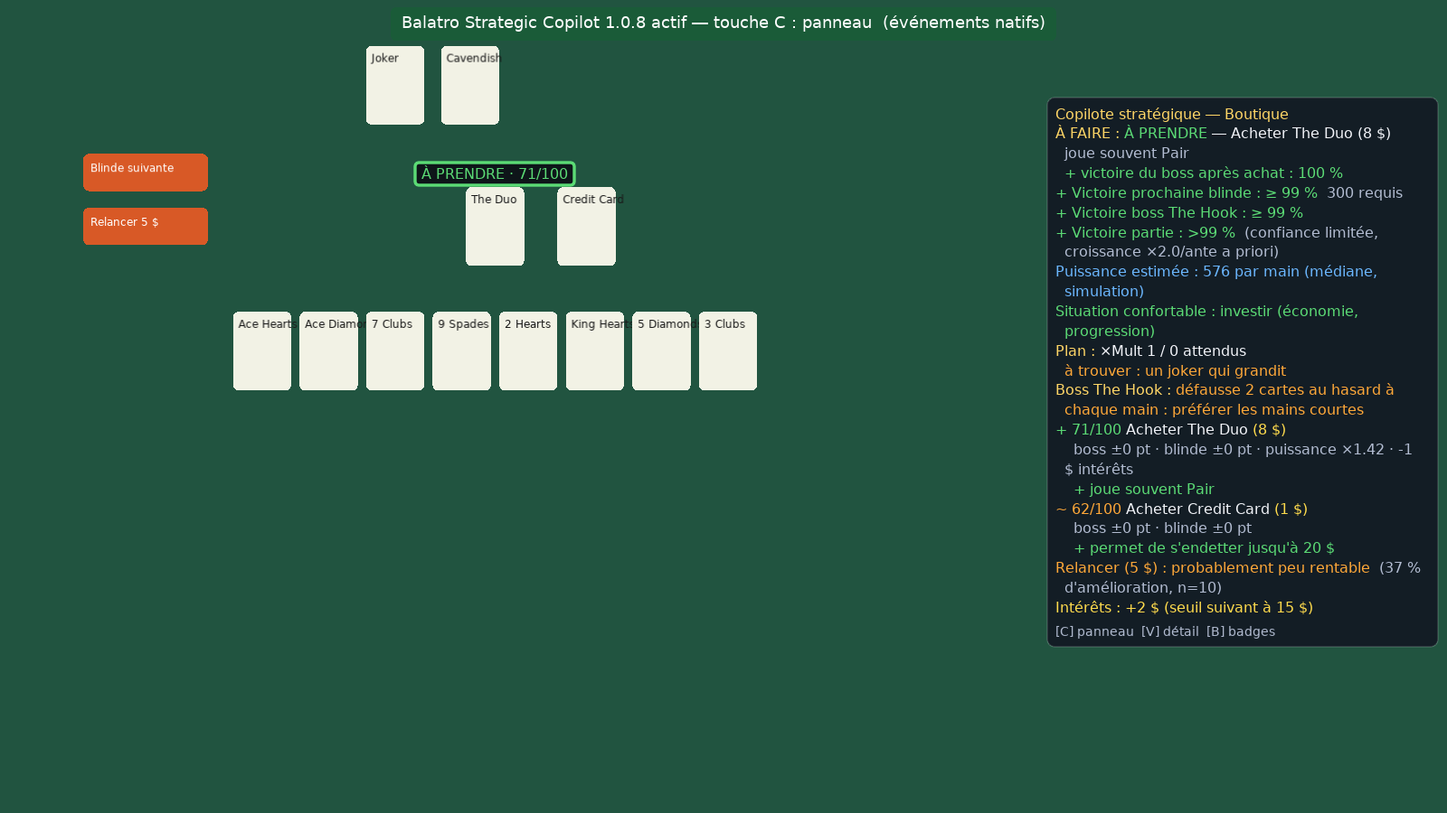
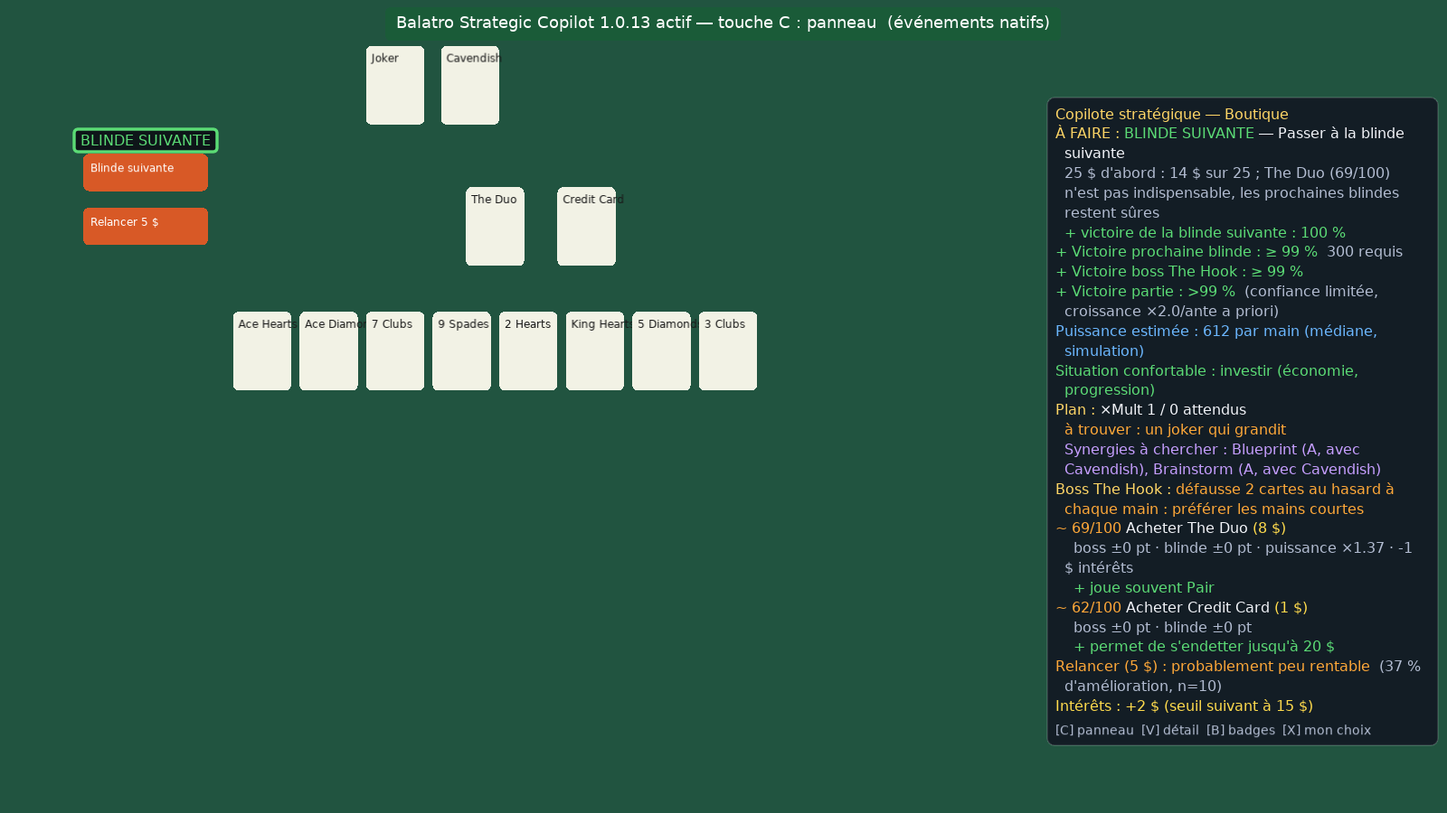
1.0.13: "25 $ d'abord" (thresholds 95 % / 85 % before the boss / 70 % earlier, measured on 40 orange-stake runs), only real income counts for money jokers, Death waits for a better card, docs and packages (installer 53/53, both loaders, standalone LÖVE)
Claude-Session: https://claude.ai/code/session_01DYVtr83p45bK7bhPZhn5XR

diff --git a/docs/TESTS.md b/docs/TESTS.md
@@ -13,8 +13,8 @@ Aucune dépendance de test : `tests/testlib.lua` fournit assertions, exécution 
 
 ```bash
 python3 tools/build.py                                    # paquet dist/…zip
-pwsh -NoProfile -File tests/installer/test_installer.ps1 -Zip dist/BalatroStrategicCopilot-1.0.12-installateur.zip [-Smods <sources Steamodded>]
-tests/standalone/run_love_standalone.sh dist/BalatroStrategicCopilot-1.0.12.zip [dossier]      # mode autonome, vrai LÖVE
+pwsh -NoProfile -File tests/installer/test_installer.ps1 -Zip dist/BalatroStrategicCopilot-1.0.13-installateur.zip [-Smods <sources Steamodded>]
+tests/standalone/run_love_standalone.sh dist/BalatroStrategicCopilot-1.0.13.zip [dossier]      # mode autonome, vrai LÖVE
 luajit tools/smods_loader_check.lua <sources Steamodded> <dossier Mods>   # vrai chargeur Steamodded
 ```
 
@@ -28,7 +28,7 @@ luajit tools/smods_loader_check.lua <sources Steamodded> <dossier Mods>   # vrai
 | `unit/test_jokers` | 12 | 150 jokers présents ; jokers de rang, couleur, type de main, état, progression ; Loyalty Card ; argent ; Lucky Cat ; Bloodstone ; **fuzzing** des 150 jokers sur 40 mains aléatoires |
 | `unit/test_probability` | 4 | hypergéométrique, inclusion-exclusion, « au moins r groupes » **comparés à l'énumération brute** ; Wilson |
 | `unit/test_hand_advisor` | 17 | **1.0.10** : cartes face cachée (The Wheel) : les cartes d'un jeu mêlant cartes cachées et visibles peuvent être défaussées au lieu d'être jouées (option coupée par défaut, mesurée neutre), aucun candidat en double ; **1.0.9** : **ordre des cartes** (Photograph + Hanging Chad : un Roi en tête ; carte Multi avant une carte de verre ; Dames gardées à gauche des Rois avec Shoot the Moon + Baron ; pas de numéros quand l'ordre ne change rien), jeu évalué dans son meilleur ordre (la Double paire qui ne gagne qu'avec un Roi en tête est trouvée) ; **1.0.8** : **Cerulean Bell** (la carte imposée part avec chaque défausse, 4 autres cartes au plus, la défausser seule est une option ; fin de manche simulée avec une nouvelle carte imposée après chaque pioche : chances proches du même jeu sans boss), boss qui changent d'une main à l'autre (The Eye, The Mouth, The Arm, Crimson Heart) ; **1.0.7** : cartes Or et sceau bleu gardées en main sur une main gagnante, valeur des cartes selon leurs effets (acier, or, violet, chance, verre) ; 218 jeux, défausse de couleur exacte, cas impossibles/faciles, monotonie en nombre de mains, carte imposée, The Psychic, carte cachée inutile quand la paire visible gagne, **toutes les cartes cachées (The House)** : conseil non vide, positions interchangeables, même conseil quelle que soit l'identité réelle des cartes, quintes Four Fingers |
-| `unit/test_advice` | 35 | **1.0.9** : numéros JOUER 1, 2… / GARDER 1, 2… et IMPOSÉE n sur les cartes ; joker loué acheté seulement s'il est fort ou en danger, revendu quand la suite reste sûre sans lui ; danger critique : relances sans limite de nombre ; **prochaine étape** : achat du meilleur objet abordable, remplacement (vendre d'abord), consommables pleins (faire de la place), vente d'un joker inutile seulement, relance puis blinde suivante, attente de l'analyse complète, planètes (sauf Observatory), tarots d'argent, jouer / défausser, tarot sur les cartes à jouer, Luchador contre un boss dangereux, Invisible Joker prêt, paquets (prendre / passer, cibles d'Arcana), passer ou jouer une blinde (boss toujours joué), numéros d'ordre seulement quand l'ordre est faux ; **1.0.6** : Death (DEVIENT à gauche, MODÈLE à droite, consigne de glissement), Strength, Hanged Man, sceaux, Magician, Chariot, consommables qui créent des cartes, Death pris dans un paquet, blinde : choix définitif seulement, paquets achetés dès 52/100, épargne des intérêts à partir de l'ante 2 (sauf objet fort ou danger), intérêts pesés à l'ante 1, une relance par boutique / relance gratuite ; **1.0.7** : éternel jamais vendu, périssable expiré vendu, Judgement avec jokers pleins (vendre d'abord le plus faible, en boutique et en paquet), règles des pros (en retard → acheter, dernière ante et The Ox → pas d'épargne, relances avec l'argent dormant, une seule relance aux antes 1-3), Verdant Leaf (une seule vente), excédent d'argent investi |
+| `unit/test_advice` | 37 | **1.0.13** : « 25 $ d'abord » (épargne dès l'ante 1 sous 25 $, boss préparé à la dernière boutique, seuls les objets qui relèvent les chances quand ce n'est pas sûr, objet fort et joker d'argent autorisés, ni paquet ni relance sous 25 $, discipline habituelle une fois 25 $ atteints) ; Death gardé tant qu'une bien meilleure carte à copier est dans le paquet ; **1.0.9** : numéros JOUER 1, 2… / GARDER 1, 2… et IMPOSÉE n sur les cartes ; joker loué acheté seulement s'il est fort ou en danger, revendu quand la suite reste sûre sans lui ; danger critique : relances sans limite de nombre ; **prochaine étape** : achat du meilleur objet abordable, remplacement (vendre d'abord), consommables pleins (faire de la place), vente d'un joker inutile seulement, relance puis blinde suivante, attente de l'analyse complète, planètes (sauf Observatory), tarots d'argent, jouer / défausser, tarot sur les cartes à jouer, Luchador contre un boss dangereux, Invisible Joker prêt, paquets (prendre / passer, cibles d'Arcana), passer ou jouer une blinde (boss toujours joué), numéros d'ordre seulement quand l'ordre est faux ; **1.0.6** : Death (DEVIENT à gauche, MODÈLE à droite, consigne de glissement), Strength, Hanged Man, sceaux, Magician, Chariot, consommables qui créent des cartes, Death pris dans un paquet, blinde : choix définitif seulement, paquets achetés dès 52/100, épargne des intérêts à partir de l'ante 2 (sauf objet fort ou danger), intérêts pesés à l'ante 1, une relance par boutique / relance gratuite ; **1.0.7** : éternel jamais vendu, périssable expiré vendu, Judgement avec jokers pleins (vendre d'abord le plus faible, en boutique et en paquet), règles des pros (en retard → acheter, dernière ante et The Ox → pas d'épargne, relances avec l'argent dormant, une seule relance aux antes 1-3), Verdant Leaf (une seule vente), excédent d'argent investi |
 | `unit/test_economy`, `test_strategy`, `test_synergy`, `test_shop` | 30 | **1.0.11** : remplacement d'un joker par un joker qui grandit : sa croissance comptée (option coupée par défaut, mesurée moins bonne) ; **1.0.10** : un joker tiré d'un paquet Bouffon est gratuit (option coupée par défaut, mesurée neutre) ; **1.0.9** : location comptée sur la durée (note bien plus basse que le même joker sans location), paquet Bouffon moins bien noté à la mise or (autocollants), revente d'un joker qui grandit comptée avec sa croissance ; intérêts, puissance reproductible, bootstrap monotone, effets de boss, blindes futures, a priori de croissance, danger continu, **1.0.8 : blindes passées comme les pros** (première Small Blind passée pour Investment, Coupon, Polychrome si la Big Blind reste sûre ; jamais pour Voucher, Juggle, D6, Double seuls ; jamais si la blinde suivante n'est pas sûre), ordre des jokers, contributions, adéquation, classement boutique, remplacement, planètes, variantes, relance, poids selon le danger, **paquets évalués par leur contenu** ; **1.0.7** : location −3 $/manche, cartes à jouer notées selon leurs effets, Judgement mesuré comme un remplacement, Hex / Ankh mesurés sur le plateau qu'ils laissent, relance utile même avec 5 jokers |
 | `unit/test_skip` | 6 | **1.0.8** : coût d'un passage (récompense, mains, intérêts, boutique ; Small Blind gratuite dès la mise rouge ; location économisée), tags d'argent selon le montant affiché, Orbital seulement sur la main principale, Big Blind passée seulement avec un boss sûr, Double selon le tag suivant, Boss Tag seulement contre un boss qui contre le jeu |
 | `unit/test_high_stakes` | 9 | **1.0.10** (mises verte et au-delà) : seuils « sûr » plus stricts (95 % / 85 % : mêmes chances, épargne gardée à la mise blanche, achat à la mise noire) ; presque jamais passer une blinde (tag Investissement aux antes 1-2, tag Boss contre un boss qui contre le jeu) ; pas de ×Mult à l'ante 4 → plus d'épargne ; trajectoire des parties gagnées (option coupée) ; une seule location avant l'ante 6 et seulement pour un ×Mult ou un joker qui grandit, éternels non ×Mult plus risqués ; bons sans score attendus sur un plateau sûr ; calibrage a priori des chances de la boutique (option coupée) ; planètes de la main principale (option coupée) ; jokers que le jeu ne rend jamais éternels / périssables (listes du wiki, identiques dans le mod et le simulateur) |
@@ -49,7 +49,7 @@ luajit tools/smods_loader_check.lua <sources Steamodded> <dossier Mods>   # vrai
 | `integration/test_steps_ui` | 5 | étiquette sur le bouton « blinde suivante », bouton absent : étape gardée en texte et boutons vus écrits au journal, étiquette « passer » sur la colonne de la blinde en cours, numéros d'ordre sous les jokers puis disparition une fois l'ordre corrigé, **The House** toutes cartes cachées (plus de « Aucune analyse disponible ») |
 | `integration/test_full_flow` | 2 | partie complète (main → défaite → bilan → fichiers → **redémarrage avec profil conservé**), boutique de bout en bout avec badges |
 | `unit/test_performance` | 6 | mesures (ci-dessous) |
-| **Total** | **285** | |
+| **Total** | **287** | |
 
 ### Tests de référence (scores)
 
@@ -98,11 +98,11 @@ prédiction (journal + diagnostic de compatibilité).
 Le script construit un **exécutable fusionné** (binaire LÖVE 11.5 + archive d'un Balatro simulé
 contenant `conf.lua` et `main.lua`), exactement comme `Balatro.exe`, puis le lance sous Xvfb avec
 différents dossiers de sauvegarde (l'équivalent de `%AppData%\Balatro`) remplis depuis l'archive
-`BalatroStrategicCopilot-1.0.12.zip`. Résultats (2026-10-22, paquet 1.0.12) :
+`BalatroStrategicCopilot-1.0.13.zip`. Résultats (2026-11-04, paquet 1.0.13) :
 
 | Scénario | Résultat |
 |---|---|
-| amorce + mod copiés | l'amorce est lue **à la place** du `main.lua` du jeu ; le `main.lua` d'origine est exécuté **une seule fois** ; copilote démarré en mode autonome (« 1.0.12 actif … mode autonome ») ; touche C : panneau ouvert ; C pendant une saisie : ignorée ; analyse terminée (image 354) ; panneau et badges « JOUER » affichés (capture) |
+| amorce + mod copiés | l'amorce est lue **à la place** du `main.lua` du jeu ; le `main.lua` d'origine est exécuté **une seule fois** ; copilote démarré en mode autonome (« 1.0.13 actif … mode autonome ») ; touche C : panneau ouvert ; C pendant une saisie : ignorée ; analyse terminée (image 308) ; panneau et badges « JOUER » affichés (capture) |
 | mod seul, sans amorce | jeu normal, pas de copilote (témoin) |
 | amorce sans le dossier du mod | jeu normal jusqu'au bout ; bandeau rouge « dossier introuvable » ; erreur dans `amorce.log` |
 | Steamodded a déjà chargé le copilote | l'amorce se retire (« Steamodded gère déjà le copilote »), pas de double chargement |
@@ -132,8 +132,8 @@ exécute l'installateur **extrait de l'archive réelle**, puis contrôle le rés
 
 Les dossiers `Mods` produits par S1, S4, S5, S7 et S9 sont ensuite passés aux **deux vrais
 chargeurs** de Steamodded (ci-dessous) : copilote trouvé, activé, bandeau « 1.0.3 actif » dans
-chaque cas. Paquet 1.0.12 (2026-10-22) : **53 vérifications réussies, 0 échec** ; S1, S4, S5 et S9
-passés aux deux chargeurs (0509c et récent) : bandeau « 1.0.12 actif » dans les 8 cas.
+chaque cas. Paquet 1.0.13 (2026-11-04) : **53 vérifications réussies, 0 échec** ; S1, S4, S5 et S9
+passés aux deux chargeurs (0509c et récent) : bandeau « 1.0.13 actif » dans les 8 cas.
 
 ### Performances mesurées (LuaJIT, conteneur Linux, plusieurs exécutions)
 

diff --git a/README.md b/README.md
@@ -5,7 +5,7 @@ partie, calcule les scores exacts, les probabilités, évalue la boutique, conse
 défausses, et **apprend de vos parties**. **Il ne joue jamais à votre place** : il n'effectue
 aucune action (sélection, jeu, défausse, achat, vente, relance).
 
-> Statut : version 1.0.12. Développée **hors du jeu** (aucune installation de Balatro n'était
+> Statut : version 1.0.13. Développée **hors du jeu** (aucune installation de Balatro n'était
 > disponible dans l'environnement de développement), puis essayée par l'utilisateur dans le vrai
 > jeu (mode copier-coller). Validée par des tests automatisés, un environnement Balatro/Steamodded
 > simulé, le vrai runtime LÖVE 11.5 et des parties complètes simulées ([entraînement](docs/TRAINING.md)).
@@ -36,7 +36,7 @@ aucune action (sélection, jeu, défausse, achat, vente, relance).
 **Méthode sans programme (recommandée, 1.0.4+)** — ni Lovely, ni Steamodded, ni script, ni DLL ;
 fonctionne aussi sur un PC protégé (contrôle parental, antivirus strict) :
 
-1. Extraire l'archive `BalatroStrategicCopilot-1.0.12.zip`.
+1. Extraire l'archive `BalatroStrategicCopilot-1.0.13.zip`.
 2. Copier le **contenu** du dossier `COPIER_DANS_AppData_Balatro` (`main.lua` + `Mods`) dans
    `%AppData%\Balatro\` (touche Windows + R, `%AppData%\Balatro`).
 3. Lancer Balatro : bandeau vert « … actif — touche C : panneau (mode autonome, sans Steamodded) ».
@@ -48,7 +48,7 @@ Balatro tourne sur LÖVE 11, qui lit `main.lua` d'abord dans le dossier de sauve
 **Avec Lovely + Steamodded** : copier le dossier `BalatroStrategicCopilot` dans
 `%AppData%\Balatro\Mods\` (de sorte que `Mods\BalatroStrategicCopilot\BalatroStrategicCopilot.json`
 existe ; une archive `.zip` déposée telle quelle est ignorée par les anciens Steamodded). L'archive
-`BalatroStrategicCopilot-1.0.12-installateur.zip` contient `INSTALLER_COPILOT.bat`, qui vérifie et
+`BalatroStrategicCopilot-1.0.13-installateur.zip` contient `INSTALLER_COPILOT.bat`, qui vérifie et
 répare toute la chaîne (dossier du jeu, Lovely, Steamodded, copilote) puis confirme que tout s'est
 chargé. Un **bandeau vert « actif »** s'affiche au lancement ; **aucun bandeau = mod non trouvé**
 ([pièges vérifiés](docs/INSTALL.md)).
@@ -78,7 +78,7 @@ qu'il faut toucher ; dès que vous l'avez faite, il recalcule et montre la suiva
 | **À PRENDRE** | sur l'objet de boutique ou la carte du paquet | le meilleur achat rentable (avec sa note /100) |
 | **À VENDRE** | sur un joker ou un consommable | pour remplacer un joker par un meilleur, faire de la place, gagner de l'argent avec un joker inutile, ou un effet de vente (Luchador contre un boss dangereux, Invisible Joker prêt) |
 | **RELANCER** | sur le bouton de relance | relance gratuite, meilleure boutique assez probable, ou une relance avant de partir (habitude des meilleurs joueurs), sans casser l'épargne des intérêts |
-| **BLINDE SUIVANTE** | sur le bouton pour quitter la boutique | quand plus rien n'est rentable, ou pour garder 25 $ d'intérêts (à partir de l'ante 2, si la suite est sûre) |
+| **BLINDE SUIVANTE** | sur le bouton pour quitter la boutique | quand plus rien n'est rentable, ou pour garder 25 $ d'intérêts : **« 25 $ d'abord » dès l'ante 1** (1.0.13, ci-dessous), puis à partir de l'ante 2 si la suite est sûre |
 | **JOUER** / **PASSER** | sur les boutons du choix de blinde | passer quand le tag vaut plus que ce que coûte le passage (récompense, mains, intérêts, boutique) et que la blinde suivante reste sûre sans boutique ; détail affiché dans le panneau ; seul le choix définitif s'affiche |
 | **UTILISER** + **CIBLE** | sur un consommable (+ les cartes à sélectionner) | planètes, argent (Hermit, Temperance), tarots et spectrales sur les cartes visées ; **Death** : DEVIENT (gauche) et MODÈLE (droite), avec la consigne de glisser la carte à gauche si besoin ; Hanged Man : À DÉTRUIRE |
 | **PASSER** | sur le bouton du paquet | quand aucune carte du paquet n'améliore le jeu |
@@ -97,6 +97,19 @@ Panneau fermé, un résumé compact reste visible. Au menu principal, `C` affich
 dernier bilan de partie, taux de victoire avec intervalle, calibration et précision des scores.
 Les options (badges, alertes, apprentissage, export, import, réinitialisation) sont dans
 *Mods → Balatro Strategic Copilot → Config*.
+
+### « 25 $ d'abord » (1.0.13)
+
+Votre stratégie : en début de partie (antes 1 à 3), tant que vous avez moins de 25 $, l'argent
+va aux 25 $ qui rapportent 5 $ d'intérêts à chaque manche. Le copilote ne fait acheter que ce
+dont la prochaine blinde a besoin pour rester sûre (et le boss, dès les boutiques qui le
+précèdent s'il paraît difficile), en choisissant seulement ce qui augmente vraiment les chances
+de passer ; un objet très fort (note ≥ 75) ou un joker d'argent qui se rembourse en 3 manches
+(Golden Joker, Rocket…) reste autorisé. Sous 25 $ : pas de paquet, pas de relance, pas de joker
+pris « pour remplir ». L'étape le dit : « 25 $ d'abord : 14 $ sur 25… ». Une fois les 25 $
+atteints, le copilote reprend sa discipline habituelle (garder 25 $, dépenser l'excédent).
+Réglages dans `config.lua` (`rush_cap = false` coupe la stratégie). Mesures sur le simulateur :
+[docs/TRAINING.md](docs/TRAINING.md), « Résultats 1.0.13 ».
 
 ### « Mon choix » : apprendre de vos décisions (touche `X`, 1.0.12)
 

diff --git a/CHANGELOG.md b/CHANGELOG.md
@@ -1,5 +1,54 @@
 # Historique des versions
 
+## 1.0.13 — 2026-11-04
+
+Demande : « se concentrer en début de partie sur les 25 $ pour avoir les 5 $ d'intérêts à
+chaque fois, le plus vite possible sans échouer sur les blindes », puis la stratégie du
+copilote ; et les retours de vos parties (dossier `BSC`, mise orange, deck rouge).
+
+### Ce que vos parties ont montré
+* Les deux parties du 4 novembre (mise orange, perdues aux antes 5 et 2) : l'argent est resté
+  entre 0 et 3 $ presque tout le temps, jamais au-dessus de 15 $, donc aucun intérêt. Dès
+  l'ante 1, le copilote a fait acheter deux paquets, un Wee Joker à 8 $ noté 62/100 et des
+  relances : il se croyait « en danger » parce que ses chances sont volontairement pessimistes
+  (mains typiques sans défausse) et qu'aux mises élevées il exige 95 % / 85 %.
+* Les écarts de score du journal (prédit très sous le réel) datent tous des versions 1.0.4 à
+  1.0.8 (cartes jouées mal lues en mode autonome, corrigé en 1.0.9) : aucun depuis la 1.0.11.
+
+### « 25 $ d'abord »
+* Antes 1 à 3, tant que l'argent est sous 25 $ : l'épargne vise 25 $ dès l'ante 1.
+  La prochaine blinde doit rester sûre (95 % sur l'estimation pessimiste du copilote) ; le boss
+  à 85 % à la dernière boutique avant lui, à 70 % aux boutiques précédentes (on épargne, il sera
+  préparé ensuite).
+* Ce qui reste acheté : ce qui relève vraiment les chances de la prochaine blinde ou du boss
+  quand elles sont trop basses, un objet très fort (note ≥ 75), un joker d'argent qui se rembourse
+  en 3 manches. Sous 25 $ : pas de paquet, pas de relance, pas de joker pris d'office.
+* L'étape le dit (« 25 $ d'abord : 14 $ sur 25… »). Une fois 25 $ atteints : la discipline
+  habituelle (garder 25 $, dépenser l'excédent). `rush_cap = false` dans `config.lua` la coupe.
+* **Mesuré** (mise orange, la vôtre, graine par graine contre la même version sans la
+  stratégie) : **25 $ atteints plus tôt** (vers la 5ᵉ blinde au lieu de la 6ᵉ) et **plus
+  d'intérêts** sur les antes 1 à 3 (9,5 $ contre 6,8 $ par partie), mais **plus de parties perdues
+  tôt** (16 sur 40 aux antes 1 à 3 contre 12) et −0,41 ± 0,62 blinde par partie : dans le bruit,
+  mais pas en faveur de la stratégie sur le simulateur. Une première version (boss jugé « sûr »
+  dès 40 % aux premières boutiques) faisait pire (−0,65 ± 0,81, 10 défaites précoces sur 30
+  contre 8) : retirée. La stratégie reste active par défaut parce que c'est la vôtre ; le
+  simulateur simplifie le jeu, vos parties diront si elle marche mieux que là-bas.
+
+### Vos corrections (`mes_choix.txt`)
+* Paquet Jumbo Arcana à 6 $ en ante 1, relance à 5 $ avec 15 $ en ante 2 : plus conseillés.
+* **Death** : en main, si une bien meilleure carte à copier (l'As acier) est encore dans le
+  paquet, le copilote garde Death et la copie quand elle revient (dans un paquet Arcane, où la
+  carte doit servir tout de suite, la meilleure carte en main).
+* `mes_choix.txt` écrit maintenant les cartes visées par un conseil de tarot (« Utiliser Death
+  sur : » restait vide).
+
+### Corrigé
+* « Joker d'argent » ne compte que l'argent vraiment gagné par manche : Credit Card (dette) et
+  Chaos the Clown (relance gratuite) n'en sont pas (vu dans le rendu LÖVE de la boutique, après
+  les mesures : la stratégie n'en devient que plus stricte).
+* Un réglage mis à `false` dans `config.lua` (ex. `reroll_once = false`) était remplacé par sa
+  valeur par défaut ; même défaut dans les options du simulateur.
+
 ## 1.0.12 — 2026-10-22
 
 Demandes : une touche pour **donner votre propre choix** à la place du conseil, avec votre

diff --git a/docs/TRAINING.md b/docs/TRAINING.md
@@ -47,7 +47,8 @@ luajit tools/trainer/report.lua sortie.jsonl [autre.jsonl ...]
   `engine/builds.lua`) : `syn_list` (1 : la grande liste), `syn_items` (1 : cartes, bons, paquets),
   `syn_static` (0 : synergies que le moteur de score mesure déjà), `syn_generic` (0 : règles
   générales). `syn_list=0 syn_items=0` rejoue exactement les choix de la 1.0.11 (vérifié graine
-  par graine).
+  par graine). 1.0.13 : `rush_cap=false` (coupe « 25 $ d'abord »), `rush_safe_next`,
+  `rush_safe_boss`, `rush_early_boss`, `rush_min_gain`, `rush_payback`, `rush_until_ante`.
 * Une ligne JSON par partie : résultat, ante atteinte, blinde perdue, historique des manches,
   décisions, plateau, niveaux, et les anomalies (étape absente ou impossible à exécuter).
 * `report.lua` applique à chaque défaite **le bilan de partie du mod** (`learning/review.lua`) et
@@ -427,3 +428,31 @@ de parties sur le simulateur (2 sur 60, 0 sur 12, 4 sur 12 de part et d'autre). 
 principal est pour vous : elle dit en boutique quelle synergie porte une note et quelles pièces
 chercher. Les préférences apprises par « Mon choix » ne sont pas appliquées par le simulateur et
 n'ont pas été mesurées.
+
+## Résultats 1.0.13 (2026-11-04) : « 25 $ d'abord », mise orange
+
+Demande du joueur (qui joue en mise orange, deck rouge) : atteindre 25 $ le plus vite possible en
+début de partie, sans perdre de blinde, puis la stratégie du copilote. Ses deux dernières parties
+réelles (perdues aux antes 5 et 2) : argent entre 0 et 3 $ presque tout le temps, aucun
+intérêt ; le copilote achetait tout dès l'ante 1 parce qu'il se croyait en danger (chances
+pessimistes, seuils des mises élevées).
+
+Mesures graine par graine, mise orange (7), deck rouge, contre la même version sans la stratégie
+(`rush_cap=false`), graines 601-640 :
+
+| Version | 25 $ atteints (blinde) | Intérêts antes 1-3 | Perdues antes 1-3 | Écart (blindes par partie) |
+|---|---|---|---|---|
+| sans la stratégie | 5,7ᵉ (21 parties sur 40) | 6,8 $ | 12 sur 40 | — |
+| v2 : prochaine blinde 90 %, boss 80 % avant lui, 40 % plus tôt (30 parties) | 4,8ᵉ | 10,5 $ | 10 sur 30 (8 sans) | −0,65 ± 0,81 |
+| **livrée : 95 %, boss 85 % avant lui, 70 % plus tôt** | **4,8ᵉ** (19 sur 40) | **9,5 $** | **16 sur 40** | **−0,41 ± 0,62** |
+
+Une première version (seuils des mises élevées partout) ne changeait presque rien à la mise
+noire : avec un jeu vide, le boss paraissait toujours « pas sûr » et le copilote achetait.
+
+**Lecture honnête.** La stratégie fait ce qu'elle promet (25 $ plus tôt, plus d'intérêts), mais
+sur le simulateur elle coûte des parties en début de partie à la mise orange : à cette mise, le
+saut entre le boss de l'ante 1 (600) et l'ante 2 (1 000 à 2 000) punit un jeu trop maigre. Les
+écarts restent dans le bruit. Elle est livrée active parce que c'est la stratégie demandée ;
+`rush_cap = false` la coupe. Après ces mesures, « joker d'argent » ne compte plus Credit Card ni
+Chaos the Clown (ils ne rapportent rien) : la stratégie livrée en est un peu plus stricte.
+

diff --git a/docs/INSTALL.md b/docs/INSTALL.md
@@ -6,11 +6,11 @@ Pour les PC qui bloquent les scripts (`.bat`, PowerShell) ou la DLL de Lovely (`
 souvent supprimée par les antivirus ou contrôles parentaux) : **ni Lovely, ni Steamodded, ni
 programme** — seulement des fichiers texte à copier.
 
-1. Extraire `BalatroStrategicCopilot-1.0.12.zip` (clic droit → *Extraire tout…*).
+1. Extraire `BalatroStrategicCopilot-1.0.13.zip` (clic droit → *Extraire tout…*).
 2. Ouvrir le dossier `COPIER_DANS_AppData_Balatro`, tout sélectionner (`main.lua` et `Mods`),
    copier, puis coller dans `%AppData%\Balatro\` (touche Windows + R, taper `%AppData%\Balatro`).
    Accepter de remplacer les fichiers si Windows le demande.
-3. Lancer Balatro normalement. Bandeau vert : « Balatro Strategic Copilot 1.0.12 actif — touche C :
+3. Lancer Balatro normalement. Bandeau vert : « Balatro Strategic Copilot 1.0.13 actif — touche C :
    panneau (mode autonome, sans Steamodded) ».
 
 Résultat :
@@ -46,7 +46,7 @@ d'origine exécuté, copilote démarré ou erreur). Voir [TROUBLESHOOTING.md](TR
 
 ### L'installateur (1.0.3+)
 
-1. Extraire **toute** l'archive `BalatroStrategicCopilot-1.0.12-installateur.zip` (clic droit →
+1. Extraire **toute** l'archive `BalatroStrategicCopilot-1.0.13-installateur.zip` (clic droit →
    *Extraire tout…*).
 2. Fermer Balatro, puis double-cliquer sur **`INSTALLER_COPILOT.bat`** dans le dossier extrait
    (si Windows affiche « Windows a protégé votre ordinateur » : *Informations complémentaires* →
@@ -125,7 +125,7 @@ dossier du jeu.
 
 1. Fermer le jeu.
 2. Supprimer toute ancienne copie du mod dans `%AppData%\Balatro\Mods\` (dossier ou `.zip`).
-3. Ouvrir l'archive `BalatroStrategicCopilot-1.0.12-installateur.zip` (ou le zip téléchargé depuis GitHub) et
+3. Ouvrir l'archive `BalatroStrategicCopilot-1.0.13-installateur.zip` (ou le zip téléchargé depuis GitHub) et
    **glisser le dossier `BalatroStrategicCopilot` qu'elle contient** dans `%AppData%\Balatro\Mods\`.
 4. Vérifier que ce fichier existe **exactement** à cet endroit :
    ```
@@ -142,7 +142,7 @@ dossier du jeu.
        LISEZMOI.txt
        src\core\ src\engine\ src\game\ src\io\ src\learning\ src\model\ src\ui\
    ```
-5. Lancer le jeu : un bandeau vert « Balatro Strategic Copilot 1.0.12 actif » s'affiche en haut de
+5. Lancer le jeu : un bandeau vert « Balatro Strategic Copilot 1.0.13 actif » s'affiche en haut de
    l'écran pendant l'intro puis 15 secondes au menu principal. Dans *Mods*, « Balatro Strategic
    Copilot » apparaît. En partie, le résumé compact s'affiche en haut à droite ; `C` ouvre le
    panneau complet.

diff --git a/docs/MATHS.md b/docs/MATHS.md
@@ -212,6 +212,14 @@ prochaine blinde ≥ 85 % et boss ≥ 70 % ; **à partir de la mise verte, 95 % 
 sinon la puissance passe d'abord et seul le seuil de base compte) :
 * seuil de base : 56/100, **52/100 pour un paquet** (les meilleurs joueurs en achètent très
   souvent) ;
+* **« 25 $ d'abord » (1.0.13, la stratégie du joueur)** : antes 1 à 3, tant que l'argent est
+  sous le plafond, l'objectif d'épargne est le plafond dès l'ante 1 ; « sûr » = prochaine blinde
+  ≥ 95 % et boss ≥ 85 % à la dernière boutique avant lui (≥ 70 % aux boutiques
+  précédentes) ; pas sûr : seuls les objets qui relèvent les chances de la prochaine blinde ou
+  du boss d'au moins 2 points sont achetés (note de base) ; sûr : un achat qui fait passer sous le
+  plafond exige 75 ; un joker d'argent qui se rembourse en 3 manches (revenu par manche estimé)
+  est pris dès la note de base ; pas de « premiers jokers » d'office, pas de paquet (75), pas de
+  relance sous le plafond ;
 * à partir de l'ante 2 : garder le plafond d'intérêts (25 $) et ne dépenser que l'excédent ; un
   achat qui fait passer sous 25 $ exige une note ≥ 75 ;
 * ante 1 : chaque dollar d'intérêts perdu relève le seuil de 3 points ;

diff --git a/docs/LIMITATIONS.md b/docs/LIMITATIONS.md
@@ -109,6 +109,11 @@
   choix toujours proposés (partir, relancer, passer). Ses préférences apprises ne peuvent pas être
   mesurées sur le simulateur.
 
+* « 25 $ d'abord » (1.0.13) : mesurée sur le simulateur en mise orange, elle atteint 25 $ plus
+  tôt mais perd plus de parties aux antes 1 à 3 (16 sur 40 contre 12) ; −0,41 ± 0,62 blinde par
+  partie, dans le bruit. Elle reste active par défaut (stratégie demandée par le joueur) ;
+  `rush_cap = false` dans `config.lua` la coupe.
+
 ## Interface
 
 * Overlay dessiné par-dessus le jeu (pas d'objets UI Balatro) : pas de survol à la souris ;
